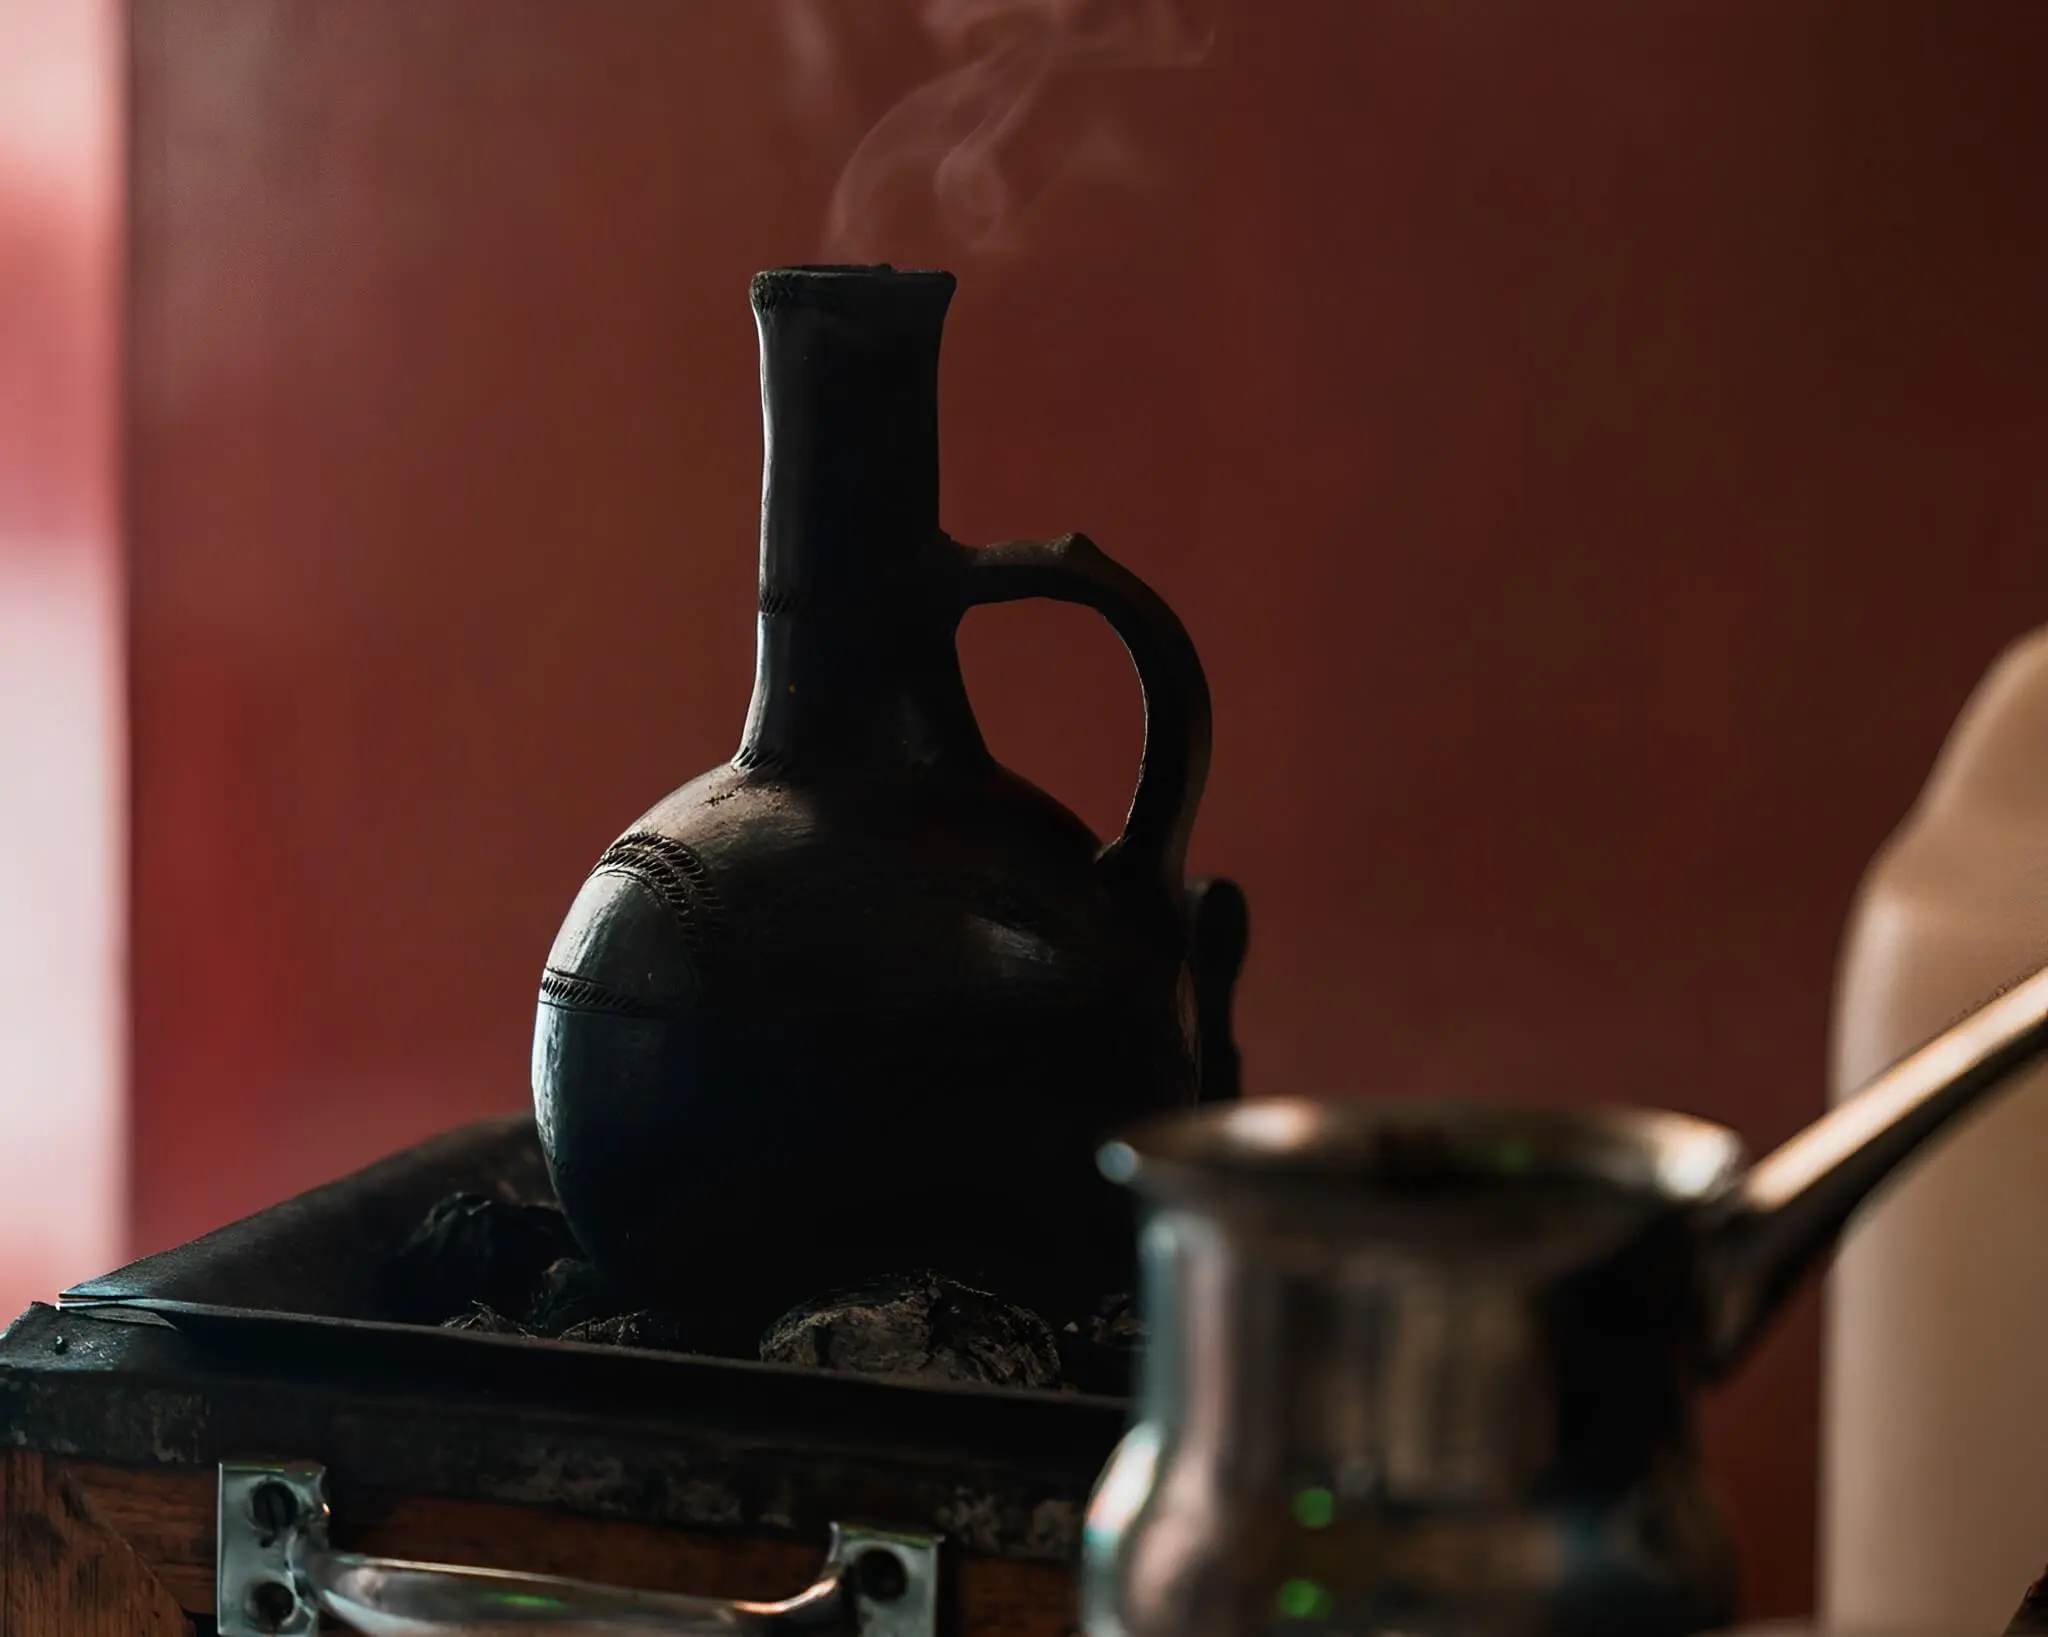
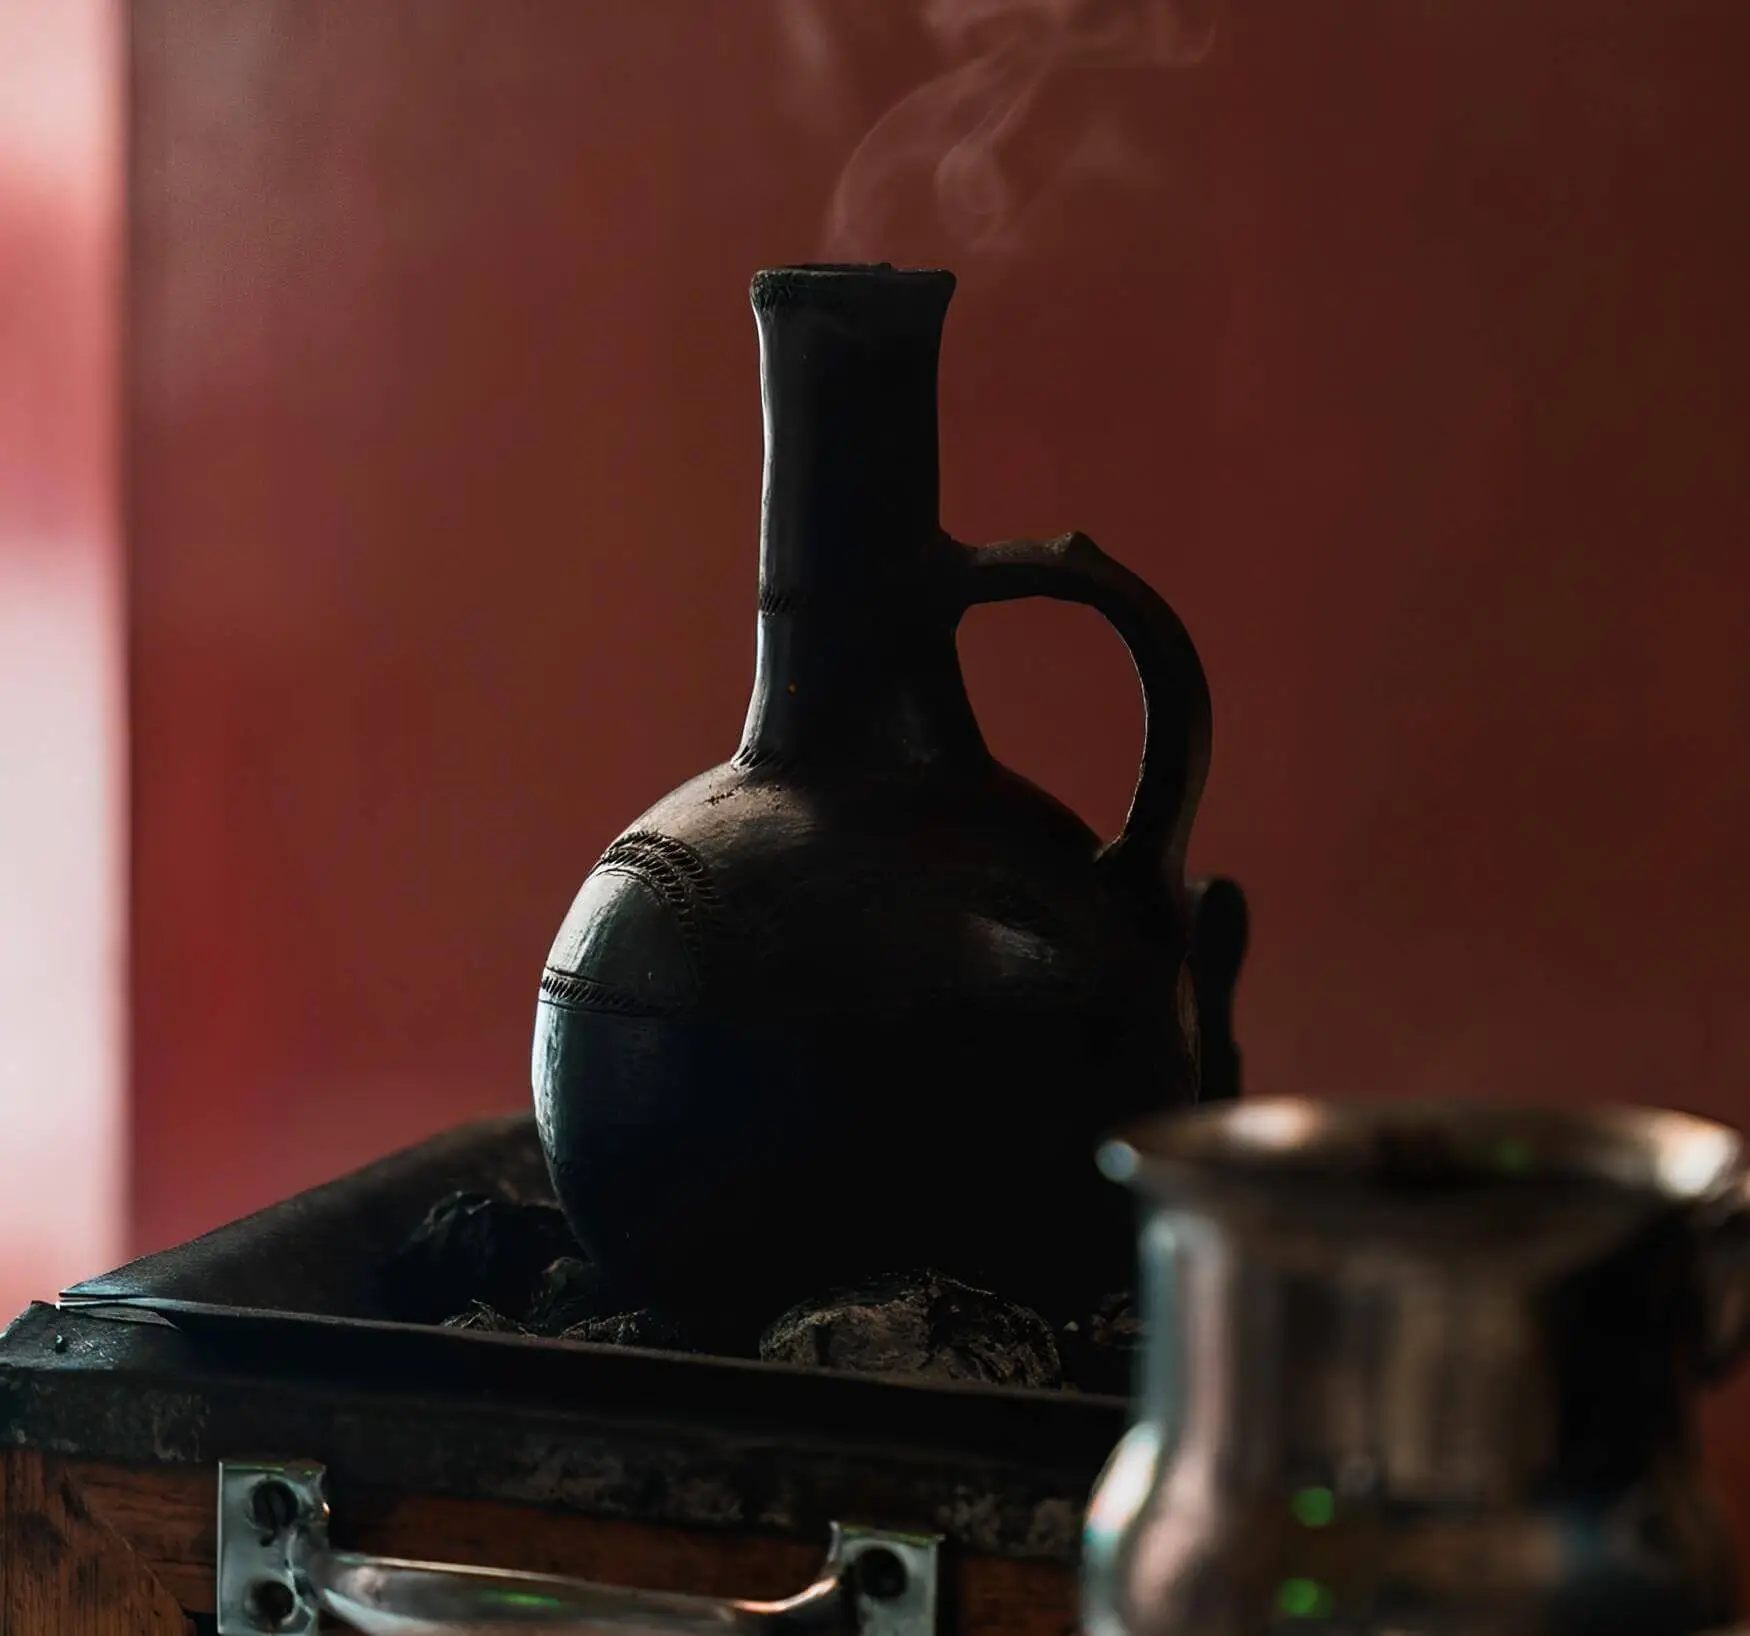
Fix the home buttons using flexbox and change to an adjusted background image

diff --git a/assets/css/style.css b/assets/css/style.css
@@ -8,11 +8,9 @@ body {
    margin: 0;
 }
 
-#intro-text {
+.intro-text {
     font-family: 'Nunito Sans', sans-serif;
-    align-self: center;
-    position: fixed;
-    left: 5%;
+    position: absolute;
     top: 40%;
     color: white;
     text-align: left;
@@ -27,6 +25,7 @@ body {
 .background-image {
     height: 100vh;
     background: center 20% /cover no-repeat;
+    overflow: hidden;
 
 }
 
@@ -118,7 +117,7 @@ nav {
 #nav-toggle:checked~nav {
     display: flex;
     justify-content: flex-end;
-    margin-left: -10px;
+    margin-left: -5%;
 }
 
 #nav-toggle {
@@ -162,6 +161,11 @@ a:hover {
     display: flex;
     height: 100%;
     padding-top: 10%;
+}
+
+.centered {
+    justify-content: center;
+    display: flex;
 }
 
 /* Generic button styles */
@@ -440,14 +444,12 @@ footer > a {
         font-size: 60%;
     }
 
-    /* This will center the coffee brewing on smaller screens*/
-    #home {
-        background-position-x: 40%;
+    .intro-text {
+        font-size: 100%;
     }
 
-    #intro-text {
-        font-size: 100%;
-        margin-left: 5%;
+    span {
+        display: block;
     }
 
     /* Adjust the div images and text blocks on coffee ceremony page*/
@@ -489,13 +491,9 @@ footer > a {
 @media screen and (min-width: 576px) {
    
   /* This will center the coffee brewing on smaller screens*/
-    #home {
-        background-position-x: 35%;
-    }
-
-    #intro-text {
+    
+    .intro-text {
         font-size: 120%;
-        margin-left: 18%; 
     }
 
     .submit {
@@ -577,41 +575,37 @@ footer > a {
 /* Media query tablets and larger screens, 768 px and up*/
 @media screen and (min-width: 768px) {
    /*Header */
-   nav {
-    display: block;
+    nav {
+     display: block;
     position: relative;
     width: fit-content;
     padding-right: 1rem;
 }
 
-#navbar {
+    #navbar {
     display: flex;
     letter-spacing: normal;
-}
+        }
 
-#navbar > li {
-    padding-left: 1rem;
-}
+    #navbar > li {
+        padding-left: 1rem;
+        }
 
-.nav-toggle-label {
-    display: none;
-}
+    .nav-toggle-label {
+        display: none;
+        }
 
-#logo {
-    font-size: 130%;
-    line-height: 75px;
-    margin: 0 0.5rem;
-    letter-spacing: 4px;
-    padding-left: 0;
-}
+    #logo {
+        font-size: 130%;
+        line-height: 75px;
+        margin: 0 0.5rem;
+        letter-spacing: 4px;
+        padding-left: 0;
+     }
 
-    #home {
-        background-position-x: 22%;
-    }
 
-    #intro-text {
+    .intro-text {
         font-size: 120%;
-        margin-left: 25%;
     }
 
     .submit {
@@ -678,13 +672,8 @@ footer > a {
 /* Large devices, laptops and desktops, 992px and up */
 @media screen and (min-width: 992px) {
     
-    #intro-text {
+    .intro-text {
        font-size: 150%;
-       margin-left: 18%;
-    }
-
-    .home-buttons {
-        margin-left: 10%;
     }
 
     /* This will break the sentence into two lines */
@@ -726,10 +715,8 @@ footer > a {
 
     /*Header image, About us page*/
     .about-us {
-        about-us {
             height: 60vh;
         }
-    }
 
     /* Form on contact page*/
     .form {
@@ -738,24 +725,17 @@ footer > a {
     }
 
 }
+
 /* Very large laptops and desktops, 1200 px and up */
 @media screen and (min-width: 1200px) {
     #logo {
         padding-left: 10px;
     }
     
-    #intro-text {
+    .intro-text {
         font-size: 2em;
-        margin-left: 12%;
     }
-    #home {
-        background-position-x: -30%;
-    }
-
-    .home-buttons {
-        margin-right: 15%;
-    }
-
+    
 /* To break the sentence on home page into two lines*/
     span {
         display: block;

diff --git a/index.html b/index.html
@@ -38,7 +38,9 @@
     <!--Main section-->
 <main>
     <section id="home" class="background-image">
-    <h2 id="intro-text">Try a new way of making coffee. Learn about<span> the coffee ceremony of Ethiopia and Eritrea</span></h2>
+    <div class="centered">
+    <h2 class="intro-text">Try a new way of making coffee. Learn about<span>the coffee ceremony of Ethiopia and Eritrea</span></h2>
+    </div>
     <!--Learn more and sign me up buttons-->
     <div class= "home-buttons">
     <a href="coffeeceremony.html" id="learn-more" class="submit" aria-label="Go to coffee ceremony section">Learn more</a>

diff --git a/README.md b/README.md
@@ -27,7 +27,7 @@ To give the user clear instructions on how to sign up for a coffee ceremony clas
   ## Design
 
 ### Images
-The imagages used on the Coffee ceremony site are of great importance for the user experience. The images are carefully selected to provide a clear context, and reinforce the content as the concept is new to many users. The dark elements in the pictures are also a good complement to the color scheme of the site.
+The images used on the Coffee ceremony site are of great importance for the user experience. The images are carefully selected to provide a clear context, and reinforce the content as the concept is new to many users. The dark elements in the pictures are also a good complement to the color scheme of the site.
 
 ### Colours
 The colour scheme of the website is black, brown and gray, common colors for coffee websites.
